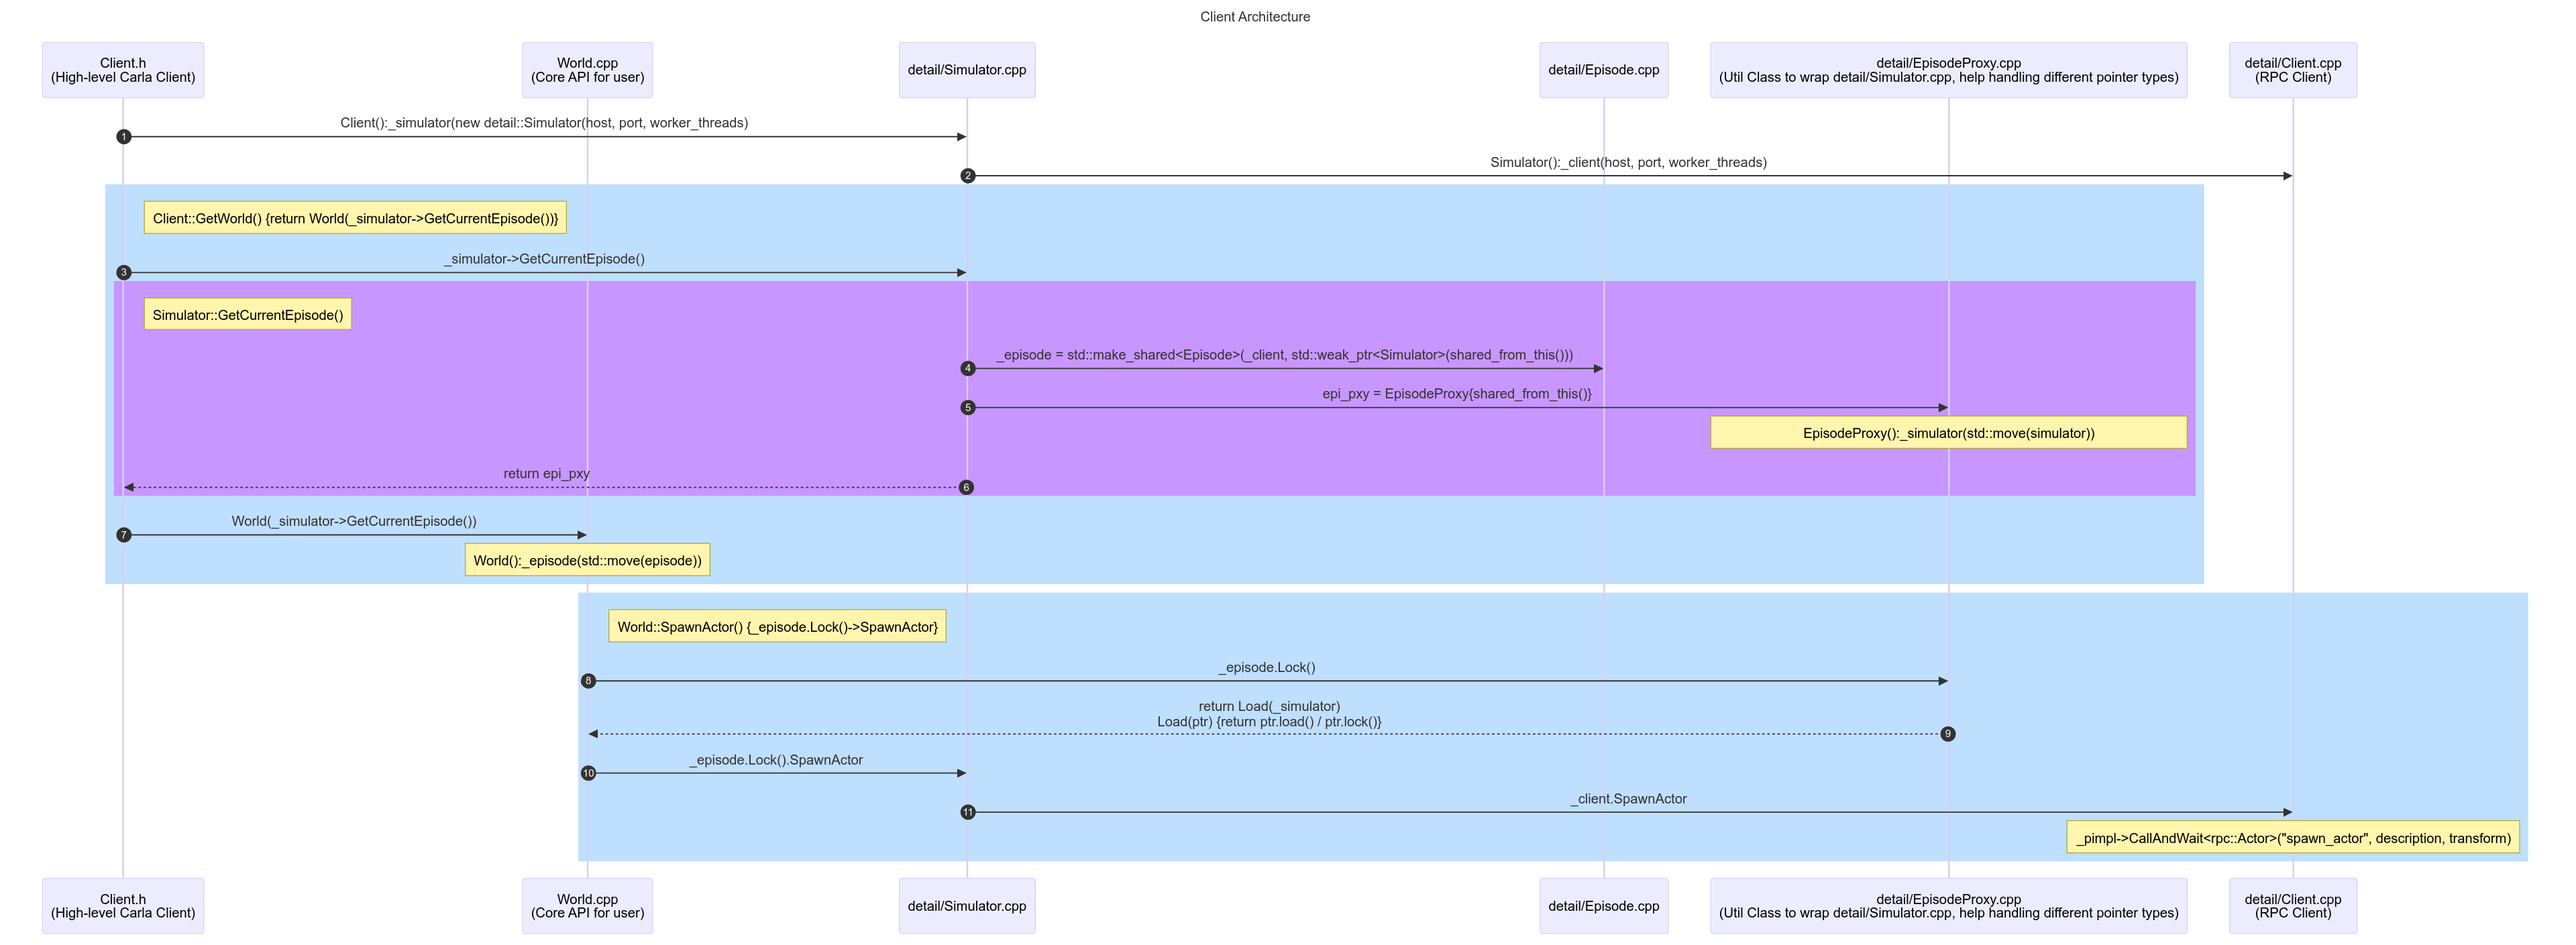
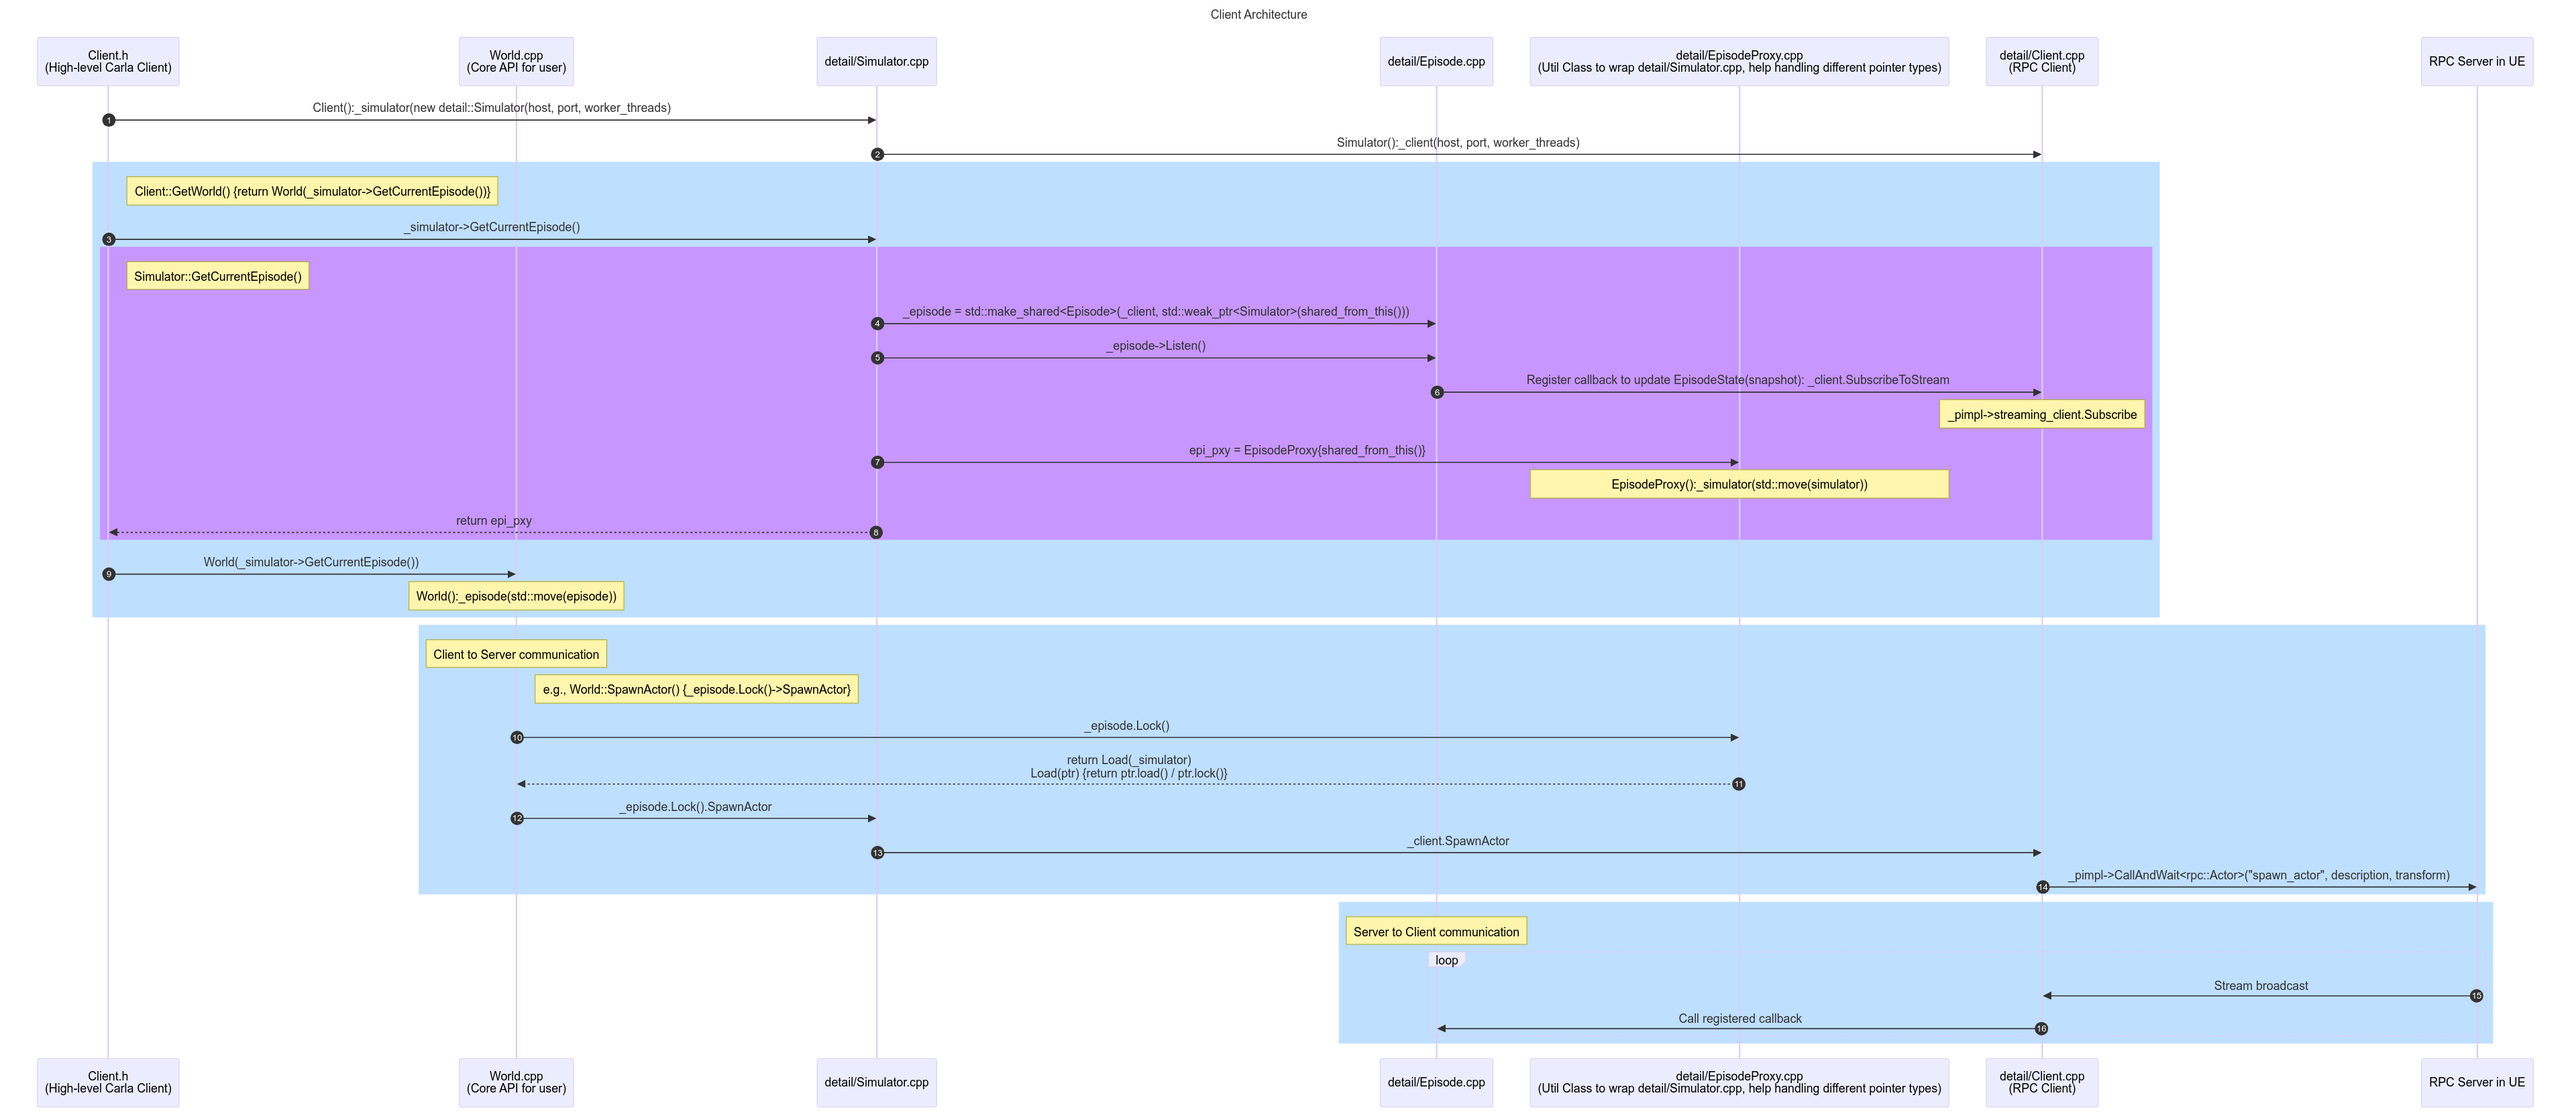
update carlaue5 architecture

diff --git a/source/_posts/source-carlaue5-architecture.md b/source/_posts/source-carlaue5-architecture.md
@@ -73,7 +73,21 @@ categories:
 
 - motivation：允许`const`成员函数修改的成员变量
 
+## `pImpl`
 
+- motivation
+    - 完全隐藏实现细节
+    - 避免修改成员变量引起头文件变化
+- 具体来说，就是
+    - 在类的`private`里面前向声明一个`Impl`类
+    - 成员变量只保留一个指向`Impl`类的`unique_ptr`
+
+## `compare_exchange`
+
+- motivation：解决多线程编程时，读到的值在要用的时候可能已经被修改的问题，主要用于条件赋值，否则直接用`store`就好了
+- 思路就是在用的时候再验一下货。具体来说，就是搞了一个包含比较和赋值这两个指令的原子操作，只有当`self`跟`expected`相等的时候，`self`才会被赋值为`target`
+- 这个也被叫做CAS(Compare and Swap)，属于无锁编程的概念。
+- 可以参考[这个blog](https://mk.woa.com/q/295415/answer/123484?kmref=vkm_push)
 
 <!-- ```mermaid
 ---
@@ -109,29 +123,45 @@ sequenceDiagram
     participant GM as CarlaGameModeBase.cpp
     participant GI as CarlaGameInstance.cpp
     participant NGN as CarlaEngine.cpp <br> (Define tick logic)
-    participant SVR as CarlaServer.cpp <br> (RPC Server)
+    participant OBS as WorldObserver.cpp <br> (Hold actor states)
     participant EPI as CarlaEpisode.cpp <br> (Hold UE APIs)
+    participant SVR as CarlaServer.cpp <br> (RPC Server)
+    participant CLIENT as RPC Client
 
     UE ->> GM : DefaultEngine.ini
     UE ->> GI : DefaultEngine.ini
     UE ->> GM : InitGame
     GM ->> GI : NotifyInitGame
     GI ->> NGN : NotifyInitGame
-    NGN ->> UE : Register OnPreTick  <br> FWorldDelegates::OnWorldTickStart.AddRaw(this, &FCarlaEngine::OnPreTick);
+    NGN ->> UE : Register OnPreTick and OnPostTick
     NGN ->> SVR : Start RPC Server
     Note over SVR: Initialize RPC Server <br> FCarlaServer::FPimpl::BindActions()
+    SVR -->> NGN : return BroadcastStream
+    NGN ->> OBS : Bind stream <br> WorldObserver.SetStream(BroadcastStream);
 
     UE ->> GM : BeginPlay
     GM ->> EPI : Episode->InitializeAtBeginPlay()
     GM ->> GI : NotifyBeginEpisode(UCarlaEpisode &)
-    GI ->> NGN : NotifyBeginEpisode(UCarlaEpisode &)
-    NGN ->> SVR : NotifyBeginEpisode(UCarlaEpisode &)
+    GI ->> NGN : NotifyBeginEpisode
+    NGN ->> SVR : NotifyBeginEpisode
     SVR ->> EPI : Bind <br> Pimpl->Episode = &Episode
 
     loop UE Tick
-    UE ->> NGN : Tick <br> Call registered OnPreTick
-    NGN ->> SVR : Server.RunSome(1u)
-    SVR ->> EPI : Call Episode's methods <br> according to RPC requests
+        rect rgb(191, 223, 255)
+            note over UE, GM : Client to Server communication
+            UE ->> NGN : Call registered OnPreTick
+            NGN ->> SVR : Server.RunSome(1u)
+            CLIENT ->> SVR : RPC requests
+            SVR ->> EPI : Call Episode's methods
+        end
+
+        rect rgb(191, 223, 255)
+            note over UE, GM : Server to Client communication
+            UE ->> NGN : Call registered OnPostTick
+            NGN ->> OBS : WorldObserver.BroadcastTick
+            OBS ->> SVR : SerializeAndSend
+            SVR ->> CLIENT : Broadcast
+        end
     end
 ```
 
@@ -147,6 +177,7 @@ sequenceDiagram
     participant EPI as detail/Episode.cpp
     participant EPI_PXY as detail/EpisodeProxy.cpp <br> (Util Class to wrap detail/Simulator.cpp, help handling different pointer types)
     participant RPC_CLIENT as detail/Client.cpp <br> (RPC Client)
+    participant SVR as RPC Server in UE
 
     CLIENT ->> SIM : Client():_simulator(new detail::Simulator(host, port, worker_threads)
     SIM ->> RPC_CLIENT : Simulator():_client(host, port, worker_threads)
@@ -158,6 +189,9 @@ sequenceDiagram
         rect rgb(200, 150, 255)
             note right of CLIENT: Simulator::GetCurrentEpisode()
             SIM ->> EPI : _episode = std::make_shared<Episode>(_client, std::weak_ptr<Simulator>(shared_from_this()));
+            SIM ->> EPI : _episode->Listen();
+            EPI ->> RPC_CLIENT : Register callback to update EpisodeState(snapshot): _client.SubscribeToStream
+            note over RPC_CLIENT :     _pimpl->streaming_client.Subscribe
             SIM ->> EPI_PXY : epi_pxy = EpisodeProxy{shared_from_this()}
             note over EPI_PXY: EpisodeProxy():_simulator(std::move(simulator))
             SIM -->> CLIENT : return epi_pxy
@@ -167,13 +201,22 @@ sequenceDiagram
         note over WORLD: World():_episode(std::move(episode))
     end
 
-    rect rgb(191, 223, 255)
-        note right of WORLD: World::SpawnActor() {_episode.Lock()->SpawnActor}
+    rect rgb(191, 223, 255)   
+        note over WORLD: Client to Server communication 
+        note right of WORLD: e.g., World::SpawnActor() {_episode.Lock()->SpawnActor}
         WORLD ->> EPI_PXY : _episode.Lock()
         EPI_PXY -->> WORLD : return Load(_simulator) <br> Load(ptr) {return ptr.load() / ptr.lock()}
         WORLD ->> SIM : _episode.Lock().SpawnActor
         SIM ->> RPC_CLIENT : _client.SpawnActor
-        note over RPC_CLIENT: _pimpl->CallAndWait<rpc::Actor>("spawn_actor", description, transform);
+        RPC_CLIENT ->> SVR: _pimpl->CallAndWait<rpc::Actor>("spawn_actor", description, transform);
+    end
+
+    rect rgb(191, 223, 255)
+    note over EPI: Server to Client communication
+    loop
+    SVR ->> RPC_CLIENT : Stream broadcast
+    RPC_CLIENT ->> EPI : Call registered callback
+    end
     end
 ```
 
